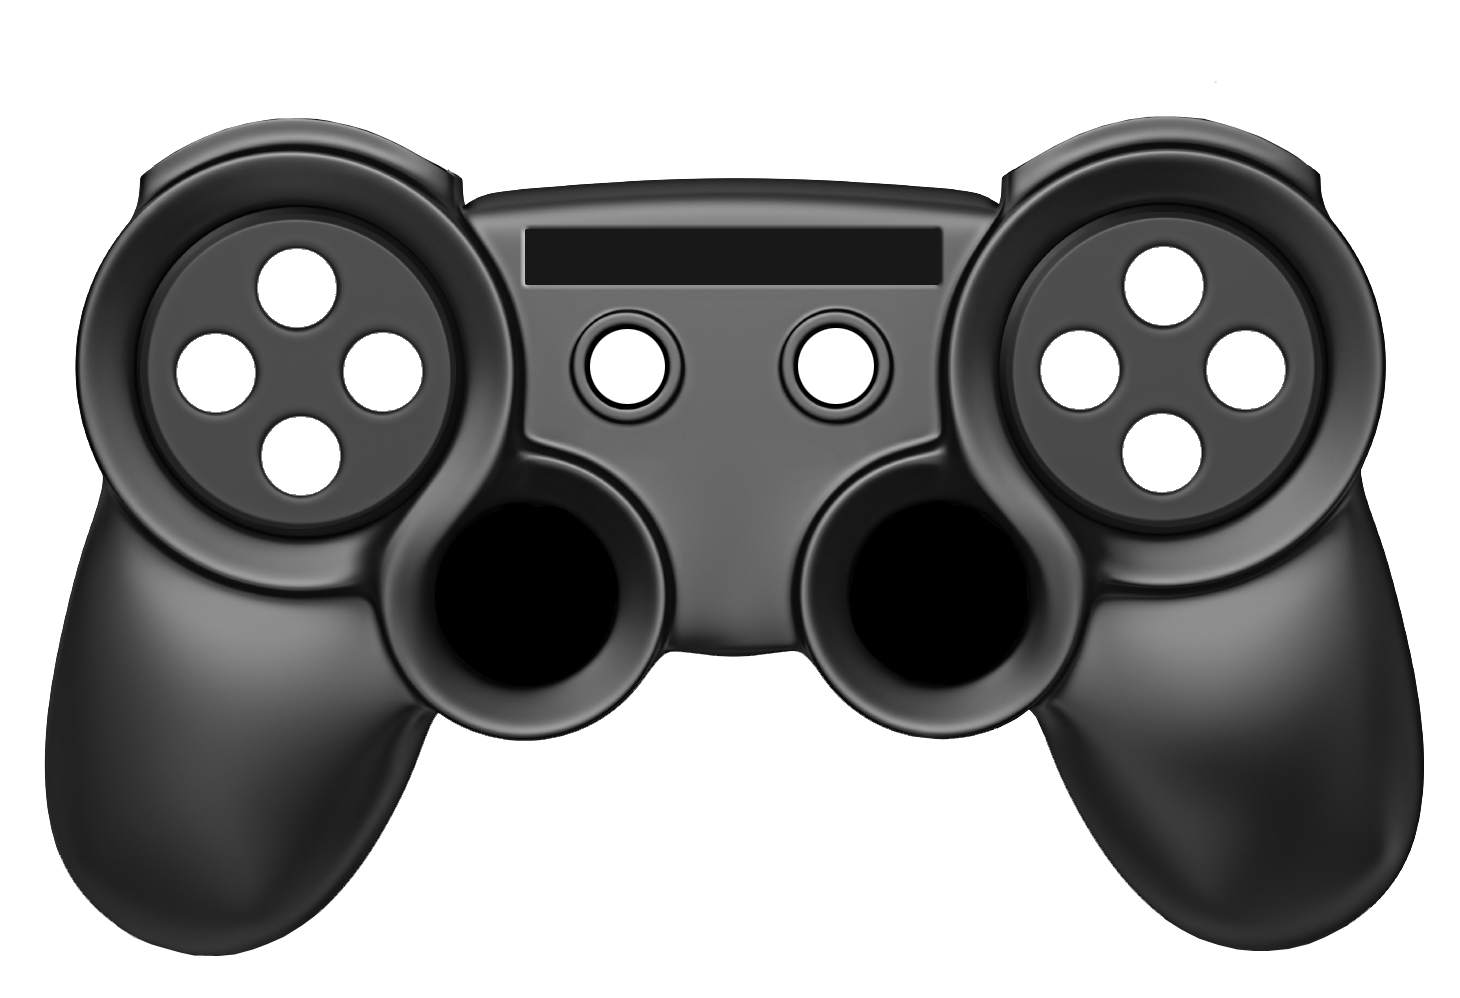
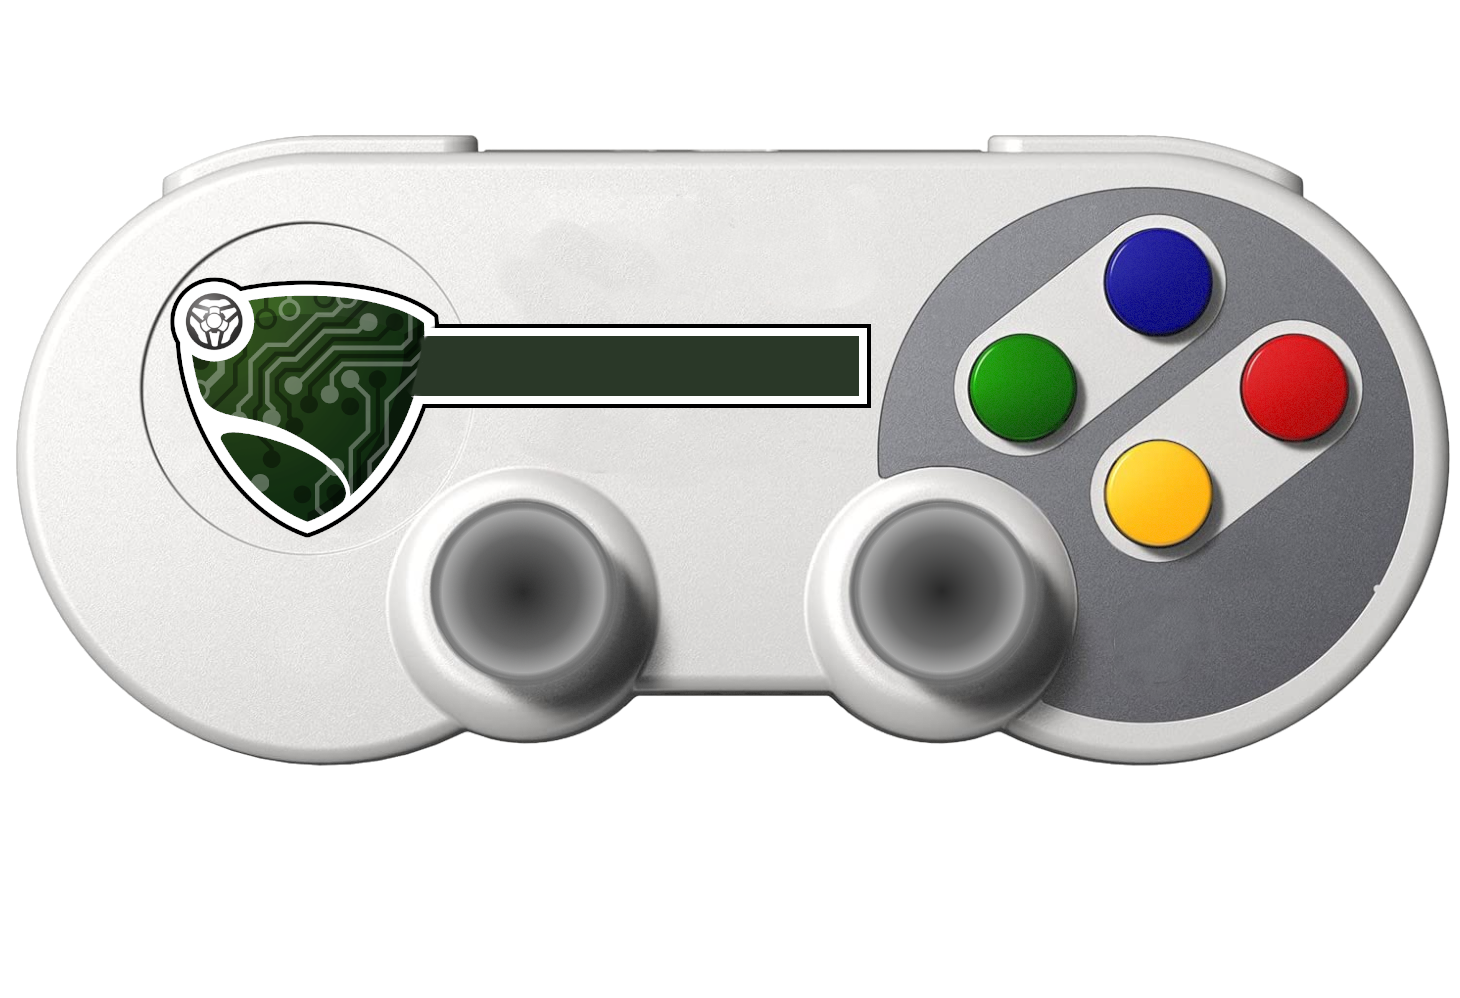
Giving the gamepad a new look.

diff --git a/web/styles.css b/web/styles.css
@@ -67,9 +67,9 @@ body {
 
 #gamepads > li > .nameplate {
   position: absolute;
-  left: 385px;
+  left: 270px;
   right: 352px;
-  top: 154px;
+  top: 208px;
   height: 30px;
   line-height: 30px;
 
@@ -93,9 +93,6 @@ body {
 
   opacity: 0;
 }
-#gamepads > li > .buttons > .pressed::after {
-  opacity: .5;
-}
 #gamepads > li > .buttons > .top-shoulder {
   width: 170px;
   height: 70px;
@@ -110,12 +107,12 @@ body {
   background-image: url(images/shoulder-top.png);
 }
 #gamepads > li > .buttons > [name='button-left-shoulder-top'] {
-  left: 185px;
-  top: 66px;
+  left: 195px;
+  top: 76px;
 }
 #gamepads > li > .buttons > [name='button-right-shoulder-top'] {
-  left: 618px;
-  top: 64px;
+  left: 610px;
+  top: 76px;
 }
 #gamepads > li > .buttons > .top-shoulder.pressed {
   margin-top: 5px;
@@ -145,14 +142,14 @@ body {
   margin-top: 5px;
 }
 #gamepads > li > .buttons > .face {
-  width: 50px;
-  height: 50px;
+  width: 80px;
+  height: 80px;
 
   z-index: 300;
 
   position: absolute;
 
-  background-size: 42px 42px;
+  background-size: 70px 70px;
   background-repeat: no-repeat;
   background-position: 50%;
 }
@@ -163,24 +160,39 @@ body {
   bottom: 5px;
 }
 #gamepads > li > .buttons > [name='button-1'] {
-  left: 676px;
-  top: 241px;
-  background-image: url(images/button-0.png);
+  left: 660px;
+  top: 247px;
+  background-image: url(images/jump.png);
 }
+#gamepads > li > .buttons > [name='button-1'].pressed {
+  background-image: url(images/jump-pressed.png);
+}
+
 #gamepads > li > .buttons > [name='button-2'] {
-  left: 718px;
-  top: 200px;
-  background-image: url(images/button-1.png);
+  left: 727px;
+  top: 195px;
+  background-image: url(images/boost.png);
 }
+#gamepads > li > .buttons > [name='button-2'].pressed {
+  background-image: url(images/boost-pressed.png);
+}
+
 #gamepads > li > .buttons > [name='button-3'] {
-  left: 635px;
-  top: 200px;
-  background-image: url(images/button-2.png);
+  left: 591px;
+  top: 195px;
+  background-image: url(images/drift.png);
 }
+#gamepads > li > .buttons > [name='button-3'].pressed {
+  background-image: url(images/drift-pressed.png);
+}
+
 #gamepads > li > .buttons > [name='button-4'] {
-  left: 677px;
-  top: 158px;
-  background-image: url(images/button-3.png);
+  left: 659px;
+  top: 142px;
+  background-image: url(images/item.png);
+}
+#gamepads > li > .buttons > [name='button-4'].pressed {
+  background-image: url(images/item-pressed.png);
 }
 
 #gamepads > li > .buttons > [name='button-dpad-bottom'] {

diff --git a/web/tester.html b/web/tester.html
@@ -37,19 +37,9 @@
 
       <div class='top-shoulder' name='button-left-shoulder-top'></div>
       <div class='top-shoulder' name='button-right-shoulder-top'></div>
-      <div class='bottom-shoulder' name='button-left-shoulder-bottom'></div>
-      <div class='bottom-shoulder' name='button-right-shoulder-bottom'></div>
-
-      <div class='select-start' name='button-select'></div>
-      <div class='select-start' name='button-start'></div>
 
       <div class='stick' name='stick-1'></div>
       <div class='stick' name='stick-2'></div>
-
-      <div class='face' name='button-dpad-top'></div>
-      <div class='face' name='button-dpad-bottom'></div>
-      <div class='face' name='button-dpad-left'></div>
-      <div class='face' name='button-dpad-right'></div>
     </div>
     <div class='index'></div>
     <div class='nameplate'></div>

diff --git a/web/gamepad.js b/web/gamepad.js
@@ -50,6 +50,13 @@ var gamepadSupport = {
    * Initialize support for Gamepad API.
    */
   init: function() {
+    gamepadSupport.rawGamepads[0] = {
+      name: 'Unknown',
+      playerIndex: 0,
+      buttons: [0, 0, 0, 0, 0, 0, 0, 0],
+      axes: [0, 0, 0, 0],
+      timestamp: 0
+    }
     gamepadSupport.startPolling();
   },
 
@@ -89,6 +96,8 @@ var gamepadSupport = {
         var controls = data.ctrl;
         gamepad.buttons[0] = controls.jm;
         gamepad.buttons[1] = controls.bs;
+        gamepad.buttons[2] = controls.hb;
+        gamepad.buttons[3] = controls.us;
         gamepad.buttons[4] = -controls.th;
         gamepad.buttons[5] = controls.th;
         gamepad.axes[0] = controls.st || controls.yw;
